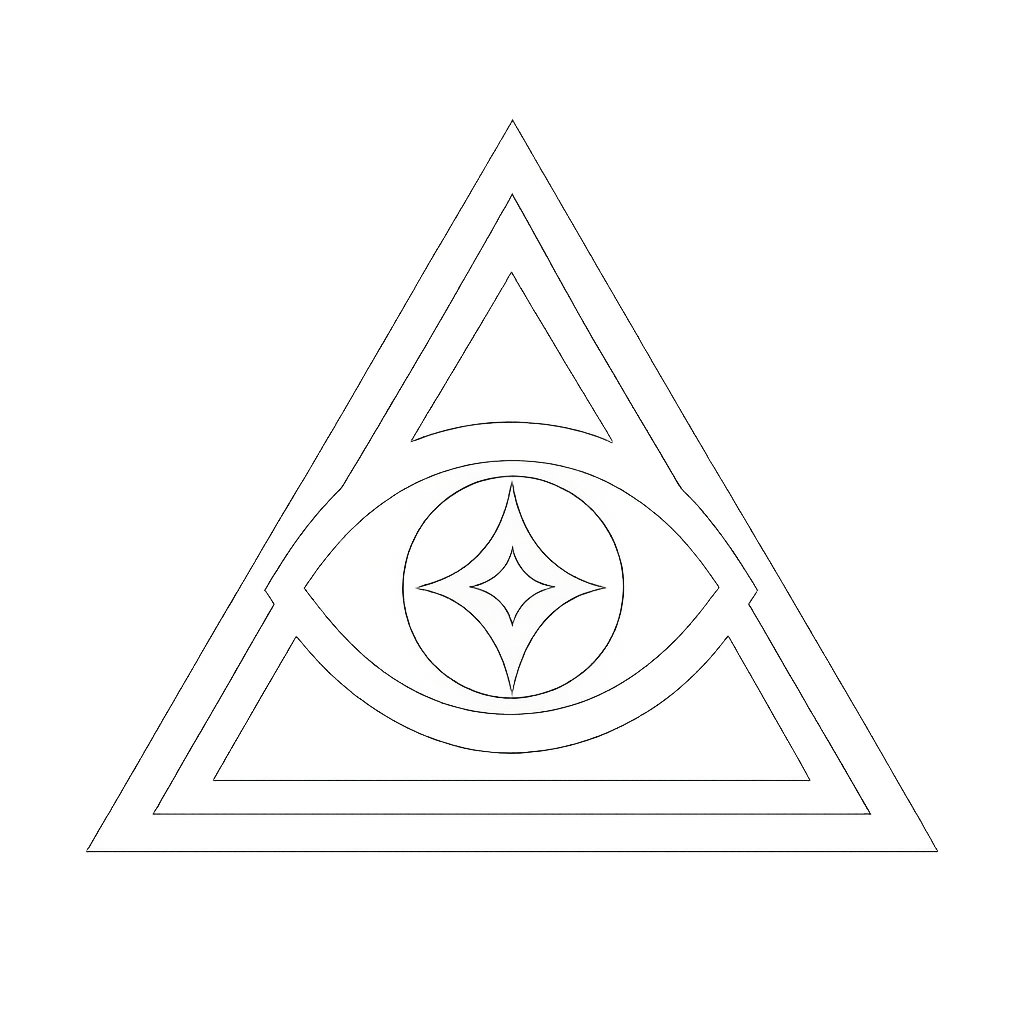
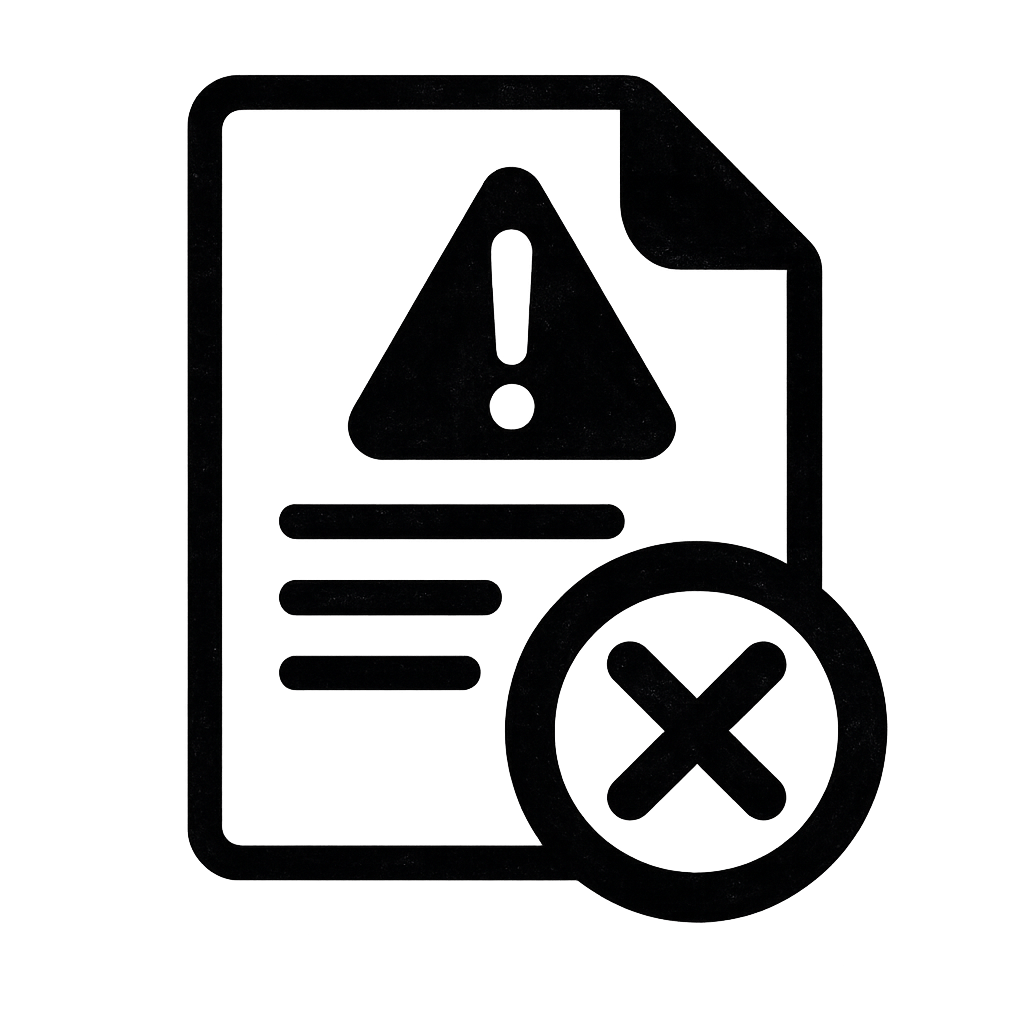
로고수정

Changed region(s): [[0.1562, 0.0625, 0.875, 0.9062]]

diff --git a/src/components/common/Header.js b/src/components/common/Header.js
@@ -11,6 +11,7 @@ import { AuthContext } from "../../AuthProvider";
 import NotificationDropdown from "./NotificationDropdown";
 import { useTheme } from "../../ThemeContext";
 import logoImg from "../../assets/images/logo.svg";
+import logoWhiteImg from "../../assets/images/logo-white.svg";
 
 function Header() {
   const [searchType, setSearchType] = useState("collection");
@@ -143,8 +144,8 @@ function Header() {
     <header className={styles.header}>
       {/* 왼쪽: 로고  */}
       <div className={styles.leftSection} onClick={() => navigate("/")}>
-        <img src={logoImg} alt="로고" />
-      </div>
+  <img src={useVideo ? logoWhiteImg : logoImg} alt="로고" />
+</div>
 
       {/* 중앙: 검색 박스 */}
       <div className={styles.centerSection}>
